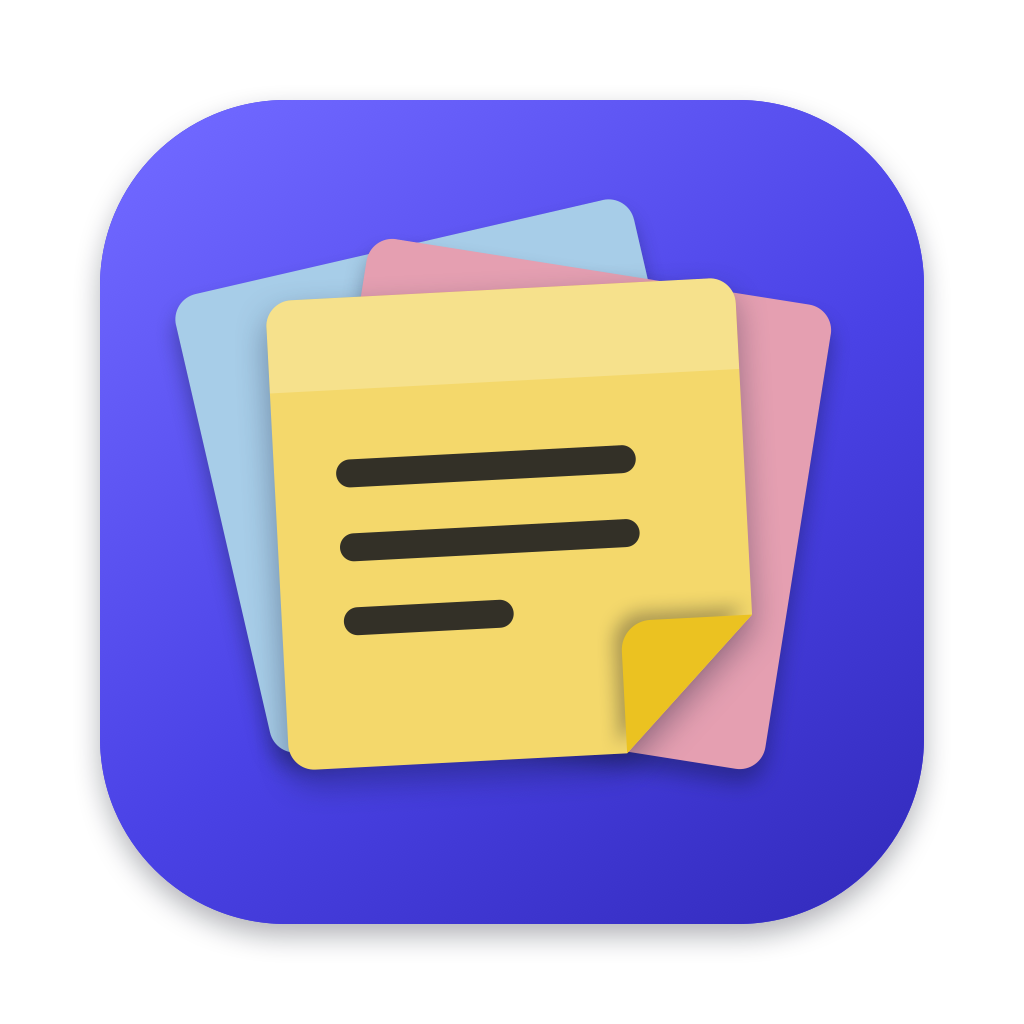
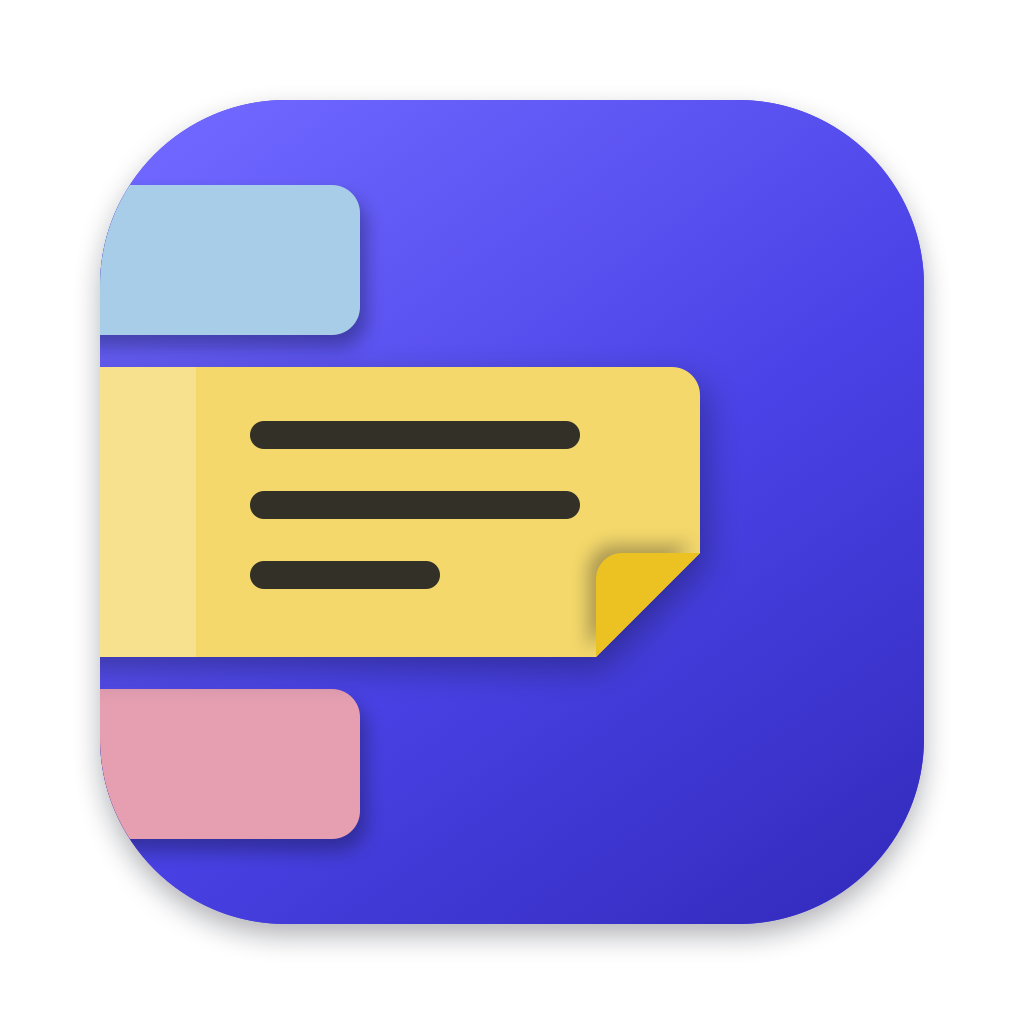
fix: hover flickered instead of expanding
Resizing the panel as a note expands makes AppKit send a stray mouseExited,
which collapsed the card and re-opened it in a loop. Hover is now decided
from the real pointer position; enter/exit events only prompt a check.
Also updates the icon artwork to notes stuck to the left edge.

diff --git a/scripts/make-icon.swift b/scripts/make-icon.swift
@@ -35,77 +35,77 @@ let ground = CGGradient(colorsSpace: nil,
                         locations: [0, 0.55, 1])!
 ctx.drawLinearGradient(ground, start: CGPoint(x: 220, y: 924), end: CGPoint(x: 800, y: 100), options: [])
 
-/// A square sticky note centred at the origin. `curl` cuts the bottom-right corner for a lifted flap.
-func note(side: CGFloat, radius: CGFloat, curl: CGFloat) -> CGPath {
-    let half = side / 2
+/// A sticky note stuck to the left edge: it runs off the plate on the left and has rounded
+/// corners on the right. `curl` cuts the bottom-right corner for a lifted flap.
+func note(x: CGFloat, y: CGFloat, w: CGFloat, h: CGFloat, radius: CGFloat, curl: CGFloat) -> CGPath {
     let p = CGMutablePath()
-    p.move(to: CGPoint(x: -half + radius, y: half))
-    p.addArc(tangent1End: CGPoint(x: half, y: half), tangent2End: CGPoint(x: half, y: half - radius), radius: radius)
+    p.move(to: CGPoint(x: x, y: y + h))
+    p.addArc(tangent1End: CGPoint(x: x + w, y: y + h), tangent2End: CGPoint(x: x + w, y: y + h - radius), radius: radius)
     if curl > 0 {
-        p.addLine(to: CGPoint(x: half, y: -half + curl))
-        p.addLine(to: CGPoint(x: half - curl, y: -half))
+        p.addLine(to: CGPoint(x: x + w, y: y + curl))
+        p.addLine(to: CGPoint(x: x + w - curl, y: y))
     } else {
-        p.addArc(tangent1End: CGPoint(x: half, y: -half), tangent2End: CGPoint(x: half - radius, y: -half), radius: radius)
+        p.addArc(tangent1End: CGPoint(x: x + w, y: y), tangent2End: CGPoint(x: x + w - radius, y: y), radius: radius)
     }
-    p.addArc(tangent1End: CGPoint(x: -half, y: -half), tangent2End: CGPoint(x: -half, y: -half + radius), radius: radius)
-    p.addArc(tangent1End: CGPoint(x: -half, y: half), tangent2End: CGPoint(x: -half + radius, y: half), radius: radius)
+    p.addLine(to: CGPoint(x: x, y: y))
     p.closeSubpath()
     return p
 }
 
-let side: CGFloat = 470, radius: CGFloat = 26, curl: CGFloat = 132
-let half = side / 2
+// Three notes stuck to the left side, like tabs on the edge of a screen. The middle one is
+// pulled out and readable; the other two are tucked in.
+let left = plate.minX - 40          // starts beyond the plate so the notes look tucked behind the edge
+let radius: CGFloat = 28, gap: CGFloat = 32
+let small: CGFloat = 150, large: CGFloat = 290, curl: CGFloat = 104
+let top = 512 + (2 * small + large + 2 * gap) / 2
 
-/// Draws one note rotated about its own centre.
-func draw(hex: UInt32, at centre: CGPoint, degrees: CGFloat, curl: CGFloat, shadow: CGFloat,
-          extras: () -> Void = {}) {
+func drawNote(hex: UInt32, y: CGFloat, w: CGFloat, h: CGFloat, curl: CGFloat, shadow: CGFloat) -> CGPath {
+    let path = note(x: left, y: y, w: w, h: h, radius: radius, curl: curl)
     ctx.saveGState()
-    ctx.translateBy(x: centre.x, y: centre.y)
-    ctx.rotate(by: degrees * .pi / 180)
-    ctx.saveGState()
-    ctx.setShadow(offset: CGSize(width: 0, height: -14), blur: shadow, color: color(0x0e1533, 0.38))
-    ctx.addPath(note(side: side, radius: radius, curl: curl))
+    ctx.setShadow(offset: CGSize(width: 6, height: -12), blur: shadow, color: color(0x0e1533, 0.40))
+    ctx.addPath(path)
     ctx.setFillColor(color(hex))
     ctx.fillPath()
     ctx.restoreGState()
-    extras()
-    ctx.restoreGState()
+    return path
 }
 
-// Two notes fanned out behind, one on top: the classic pad of sticky notes.
-draw(hex: 0xa7cde8, at: CGPoint(x: 452, y: 548), degrees: 13, curl: 0, shadow: 22)
-draw(hex: 0xe59fb1, at: CGPoint(x: 566, y: 520), degrees: -9, curl: 0, shadow: 22)
-draw(hex: 0xf4d86b, at: CGPoint(x: 512, y: 500), degrees: 3, curl: curl, shadow: 34) {
-    // Lighter band along the top, where the adhesive strip sits.
-    ctx.saveGState()
-    ctx.addPath(note(side: side, radius: radius, curl: curl))
-    ctx.clip()
-    ctx.setFillColor(color(0xffffff, 0.22))
-    ctx.fill(CGRect(x: -half, y: half - 92, width: side, height: 92))
-    ctx.restoreGState()
+_ = drawNote(hex: 0xa7cde8, y: top - small, w: 300, h: small, curl: 0, shadow: 20)
+_ = drawNote(hex: 0xe59fb1, y: top - 2 * small - large - 2 * gap, w: 300, h: small, curl: 0, shadow: 20)
 
-    // Handwriting, as three bars.
-    ctx.setFillColor(color(0x020617, 0.80))
-    for (n, width) in [300.0, 300.0, 170.0].enumerated() {
-        let line = CGRect(x: -half + 62, y: half - 190 - CGFloat(n) * 74, width: width, height: 28)
-        ctx.addPath(CGPath(roundedRect: line, cornerWidth: 14, cornerHeight: 14, transform: nil))
-    }
-    ctx.fillPath()
+let y = top - small - gap - large, w: CGFloat = 640
+let open = drawNote(hex: 0xf4d86b, y: y, w: w, h: large, curl: curl, shadow: 36)
 
-    // The lifted corner: the paper's underside folded back over the note.
-    let flap = CGMutablePath()
-    flap.move(to: CGPoint(x: half, y: -half + curl))
-    flap.addLine(to: CGPoint(x: half - curl, y: -half))
-    flap.addArc(tangent1End: CGPoint(x: half - curl, y: -half + curl),
-                tangent2End: CGPoint(x: half, y: -half + curl), radius: 30)
-    flap.closeSubpath()
-    ctx.saveGState()
-    ctx.setShadow(offset: CGSize(width: -8, height: 8), blur: 18, color: color(0x020617, 0.30))
-    ctx.addPath(flap)
-    ctx.setFillColor(color(0xebc221))
-    ctx.fillPath()
-    ctx.restoreGState()
+// Lighter band where the adhesive strip holds the note to the edge.
+ctx.saveGState()
+ctx.addPath(open)
+ctx.clip()
+ctx.setFillColor(color(0xffffff, 0.24))
+ctx.fill(CGRect(x: left, y: y, width: 40 + 96, height: large))
+ctx.restoreGState()
+
+// Handwriting, as three bars.
+ctx.setFillColor(color(0x020617, 0.80))
+for (n, width) in [330.0, 330.0, 190.0].enumerated() {
+    let line = CGRect(x: plate.minX + 150, y: y + large - 82 - CGFloat(n) * 70, width: width, height: 28)
+    ctx.addPath(CGPath(roundedRect: line, cornerWidth: 14, cornerHeight: 14, transform: nil))
 }
+ctx.fillPath()
+
+// The lifted corner: the paper's underside folded back over the note.
+let right = left + w
+let flap = CGMutablePath()
+flap.move(to: CGPoint(x: right, y: y + curl))
+flap.addLine(to: CGPoint(x: right - curl, y: y))
+flap.addArc(tangent1End: CGPoint(x: right - curl, y: y + curl),
+            tangent2End: CGPoint(x: right, y: y + curl), radius: 26)
+flap.closeSubpath()
+ctx.saveGState()
+ctx.setShadow(offset: CGSize(width: -8, height: 8), blur: 18, color: color(0x020617, 0.30))
+ctx.addPath(flap)
+ctx.setFillColor(color(0xebc221))
+ctx.fillPath()
+ctx.restoreGState()
 ctx.restoreGState()
 
 let rep = NSBitmapImageRep(cgImage: ctx.makeImage()!)

diff --git a/Sources/StickySideNote/RailView.swift b/Sources/StickySideNote/RailView.swift
@@ -18,35 +18,56 @@ final class RailDrag {
     var onEnded: (NSPoint) -> Void = { _ in }
 }
 
-/// Decides which note counts as hovered when the pointer is over several tracking areas
-/// (an expanded card overlaps the tabs beneath it), and debounces fast sweeps.
+/// Decides which note counts as hovered.
+///
+/// Enter/exit events only prompt a check; the answer comes from where the pointer actually
+/// is. Resizing the panel as a note expands makes AppKit send a stray mouseExited for the
+/// note under the pointer, and trusting it made the card collapse and re-open in a loop.
 @MainActor
 final class HoverRouter {
     private weak var model: RailModel?
-    private var inside: [UUID] = []
+    private var views: [UUID: WeakCatcher] = [:]
+    private var lastEntered: UUID?
     private var pending: DispatchWorkItem?
-    /// Off in snapshot runs, where hover is set directly instead of by the pointer.
+    /// Off while the rail is being dragged, and in snapshot runs where hover is set directly.
     var isEnabled = true
+
+    private struct WeakCatcher { weak var view: CatcherView? }
 
     init(model: RailModel) { self.model = model }
 
+    func register(_ id: UUID, _ view: CatcherView) {
+        views[id] = WeakCatcher(view: view)
+    }
+
     func set(_ id: UUID, inside isInside: Bool) {
         guard isEnabled else { return }
-        inside.removeAll { $0 == id }
-        if isInside { inside.append(id) }
+        if isInside { lastEntered = id }
+        schedule(after: isInside ? 0.06 : 0.08)
+    }
+
+    private func schedule(after delay: Double) {
         pending?.cancel()
         let work = DispatchWorkItem { [weak self] in self?.resolve() }
         pending = work
-        DispatchQueue.main.asyncAfter(deadline: .now() + (isInside ? 0.06 : 0.08), execute: work)
+        DispatchQueue.main.asyncAfter(deadline: .now() + delay, execute: work)
     }
 
     func resolve() {
-        guard let model else { return }
+        guard isEnabled, let model else { return }
         let alive = Set(model.store.notes.map(\.id))
-        inside.removeAll { !alive.contains($0) }
-        // Stay on the current note while the pointer is still on its card.
-        if let current = model.hoveredID, inside.contains(current) { return }
-        model.setHover(inside.last)
+        views = views.filter { alive.contains($0.key) && $0.value.view != nil }
+        let under = views.filter { $0.value.view?.containsPointer == true }.map(\.key)
+
+        if let current = model.hoveredID, under.contains(current) {
+            // Still on the open card, even where it overlaps the tabs beneath it.
+        } else if let lastEntered, under.contains(lastEntered) {
+            model.setHover(lastEntered)
+        } else {
+            model.setHover(under.first)
+        }
+        // While a card is open keep checking, so it closes even if mouseExited never arrives.
+        if model.hoveredID != nil { schedule(after: 0.2) }
     }
 }
 

diff --git a/Sources/StickySideNote/MouseCatcher.swift b/Sources/StickySideNote/MouseCatcher.swift
@@ -10,6 +10,8 @@ struct MouseCatcher: NSViewRepresentable {
     var passThrough = false
     /// When set, dragging from this view moves the whole rail instead of clicking.
     var drag: RailDrag?
+    /// Called with the backing view, so hover can be checked against the real pointer position.
+    var onAttach: (CatcherView) -> Void = { _ in }
     var onHover: (Bool) -> Void = { _ in }
     var onPress: (Bool) -> Void = { _ in }
     var onClick: () -> Void = {}
@@ -20,6 +22,7 @@ struct MouseCatcher: NSViewRepresentable {
 
     func updateNSView(_ view: CatcherView, context: Context) {
         view.handlers = self
+        onAttach(view)
     }
 
     static func dismantleNSView(_ view: CatcherView, coordinator: ()) {

diff --git a/Sources/StickySideNote/NoteView.swift b/Sources/StickySideNote/NoteView.swift
@@ -72,6 +72,7 @@ struct NoteView: View {
             MouseCatcher(
                 passThrough: isEditing,
                 drag: drag,
+                onAttach: { hover.register(note.id, $0) },
                 onHover: { hover.set(note.id, inside: $0) },
                 onClick: { copy() },
                 onDoubleClick: { model.beginEdit(note.id) },
